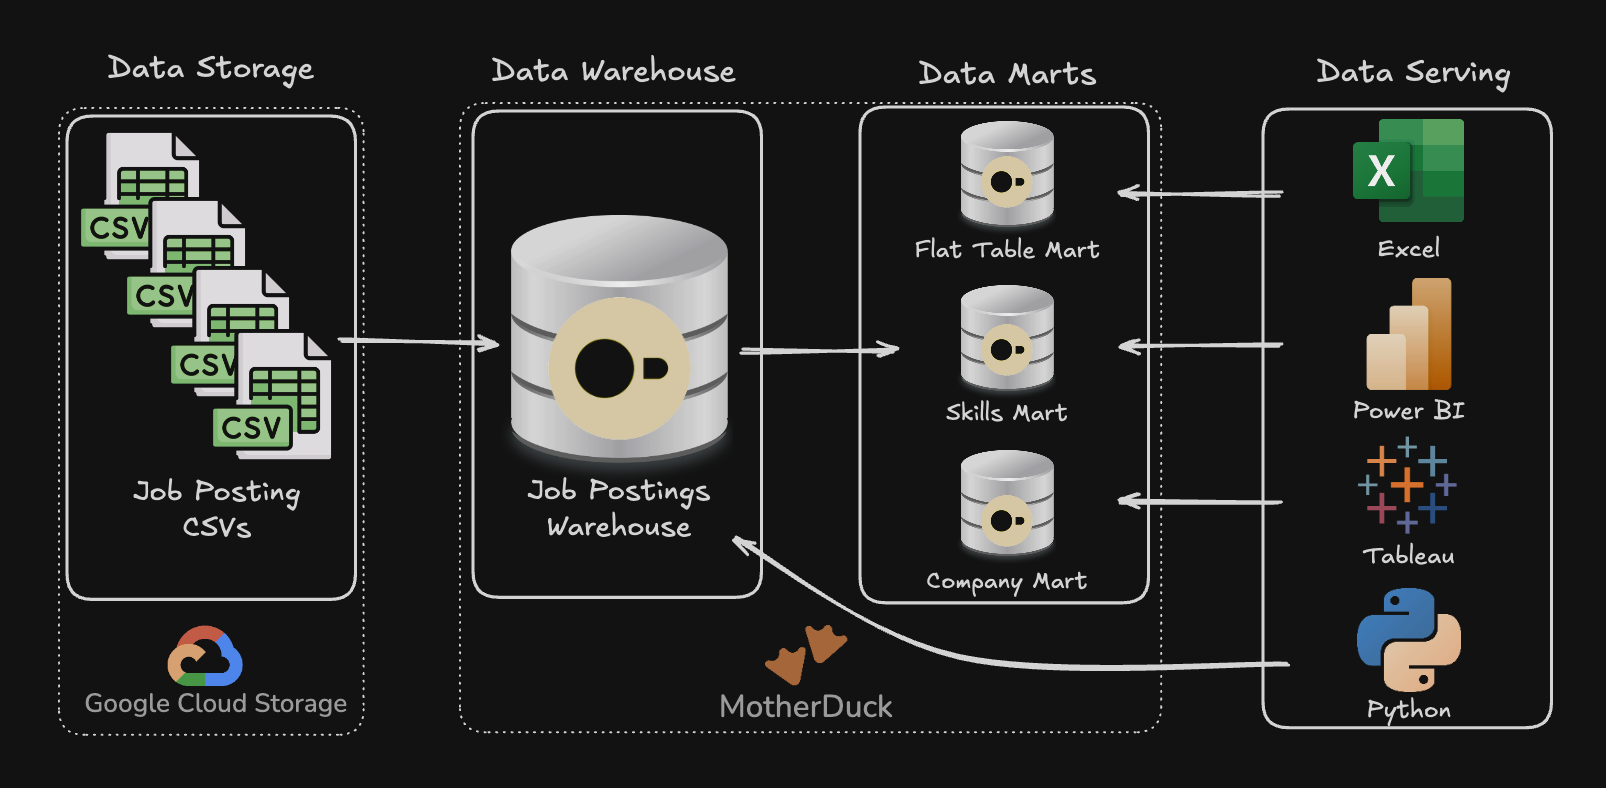
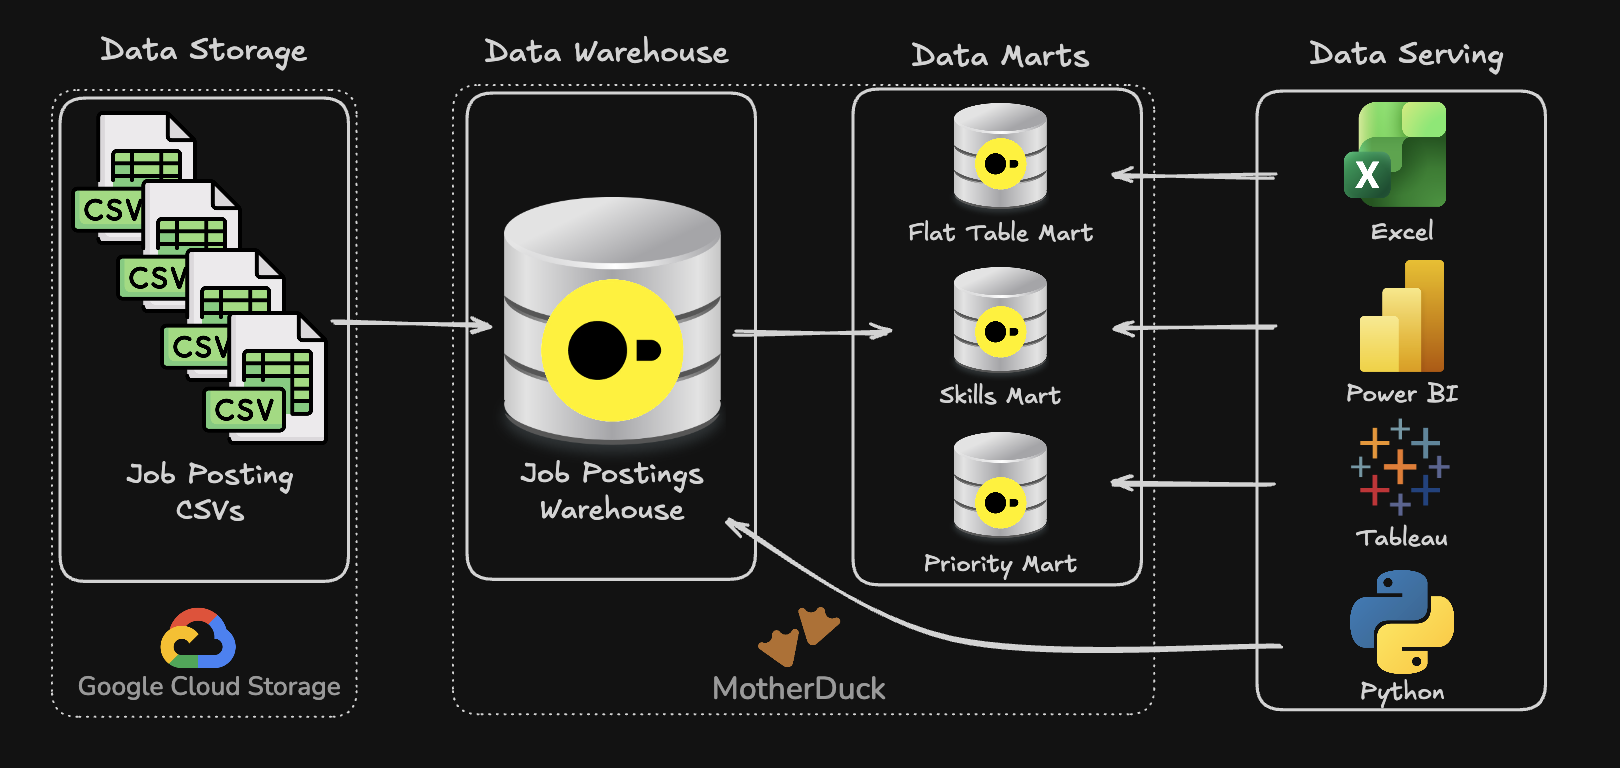
added priority mart to project2

diff --git a/Projects/2_WH_Mart_Build/README.md b/Projects/2_WH_Mart_Build/README.md
@@ -11,13 +11,7 @@ An end-to-end data engineering pipeline that transforms raw CSV files from Googl
 - ✅ **Pipeline scope:** Built a complete **ETL pipeline** from raw CSVs to star schema warehouse to analytical marts  
 - ✅ **Data modeling:** Designed a **star schema** with fact tables, dimensions, and bridge tables for many-to-many relationships  
 - ✅ **ETL development:** Implemented **extract, transform, load** processes with idempotent operations and data quality checks  
-- ✅ **Mart architecture:** Created **3 specialized data marts** (flat, skills, company) with additive measures for safe re-aggregation
-
-If you only have a minute, review these:
-
-1. [`01_create_tables_dw.sql`](./01_create_tables_dw.sql) – star schema DDL with dimensional modeling  
-2. [`02_load_schema_dw.sql`](./02_load_schema_dw.sql) – GCS data extraction and loading  
-3. [`04_create_skills_mart.sql`](./04_create_skills_mart.sql) – skills demand mart with additive measures  
+- ✅ **Mart architecture:** Created **specialized data marts** (flat, skills, priority) with additive measures and incremental update patterns
 
 ---
 
@@ -31,7 +25,7 @@ Raw job posting data arrives as flat CSV files in Google Cloud Storage—not str
 
 **Challenge:** Data teams need a single source of truth system—a data warehouse—to enable consistent, reliable analysis across the organization. Additionally, specialized data marts are required to optimize resources by pre-aggregating data for specific business use cases, reducing query complexity and improving performance for common analytical patterns.
 
-**Solution:** End-to-end ETL pipeline that extracts CSVs from cloud storage, normalizes them into a star schema warehouse (separating facts from dimensions), and creates three specialized data marts optimized for specific use cases (flat queries, skill demand analysis, company hiring trends).  
+**Solution:** End-to-end ETL pipeline that extracts CSVs from cloud storage, normalizes them into a star schema warehouse (separating facts from dimensions), and creates specialized data marts optimized for specific use cases (flat queries, skill demand analysis, priority role tracking).  
 
 ---
 
@@ -51,13 +45,15 @@ Raw job posting data arrives as flat CSV files in Google Cloud Storage—not str
 
 ```text
 2_WH_Mart_Build/
-├── 01_create_tables_dw.sql      # Star schema DDL
-├── 02_load_schema_dw.sql       # GCS data extraction & loading
-├── 03_create_flat_mart.sql     # Denormalized flat mart
-├── 04_create_skills_mart.sql   # Skills demand mart
-├── 05_create_company_mart.sql  # Company hiring mart
-├── build_dw_marts.sql          # Master SQL build script
-└── README.md                    # You are here
+├── 01_create_tables_dw.sql        # Star schema DDL
+├── 02_load_schema_dw.sql          # GCS data extraction & loading
+├── 03_create_flat_mart.sql        # Denormalized flat mart
+├── 04_create_skills_mart.sql      # Skills demand mart
+├── 05_create_priority_mart.sql    # Priority roles mart
+├── 06_update_priority_mart.sql    # Priority mart incremental update (MERGE)
+├── 07_create_company_mart.sql     # Company hiring mart (optional)
+├── build_dw_marts.sql             # Master SQL build script
+└── README.md                       # You are here
 ```
 
 ---
@@ -65,9 +61,9 @@ Raw job posting data arrives as flat CSV files in Google Cloud Storage—not str
 ## 🏗 Pipeline Architecture
 
 
-![Data Pipeline Architecture](../../../Resources/images/1_2_Project2_Data_Pipeline.png)
+![Data Pipeline Architecture](../../Resources/images/1_2_Project2_Data_Pipeline.png)
 
-The pipeline transforms job posting CSVs from Google Cloud Storage into a normalized star schema data warehouse, then builds three specialized analytical data marts. BI tools (Excel, Power BI, Tableau, Python) consume from both the warehouse and marts.
+The pipeline transforms job posting CSVs from Google Cloud Storage into a normalized star schema data warehouse, then builds specialized analytical data marts. BI tools (Excel, Power BI, Tableau, Python) consume from both the warehouse and marts.
 
 ### Data Warehouse
 
@@ -102,16 +98,30 @@ Time-series skill demand analysis with additive measures.
 - **Grain:** `skill_id + month_start_date + job_title_short`
 - **Key Features:** All measures are additive (counts/sums) for safe re-aggregation
 
-### Company Mart
+### Priority Mart
+
+Priority role tracking with incremental updates using MERGE operations.
+
+![Priority Mart Schema](../../Resources/images/1_2_Priority_Mart.png)
+
+- **SQL Files:**
+  - [`05_create_priority_mart.sql`](./05_create_priority_mart.sql) – Initial build of priority roles and jobs snapshot
+  - [`06_update_priority_mart.sql`](./06_update_priority_mart.sql) – **Incremental update using MERGE** (upsert pattern)
+- **Purpose:** Track priority roles and job snapshots with incremental update capabilities
+- **Grain:** One row per job posting with priority level assignment
+- **Key Features:** **MERGE operations for incremental updates** - demonstrates production-ready upsert patterns (INSERT, UPDATE, DELETE in single statement)
+
+### Company Mart (Optional)
 
 Company hiring trends by role, location, and month.
 
 ![Company Mart Schema](../../Resources/images/1_2_Company_Mart.png)
 
-- **SQL File:** [`05_create_company_mart.sql`](./05_create_company_mart.sql) – Builds company hiring trends mart
+- **SQL File:** [`07_create_company_mart.sql`](./07_create_company_mart.sql) – Builds company hiring trends mart (optional)
 - **Purpose:** Company hiring trends analysis by role, location, and month
 - **Grain:** `company_id + job_title_short_id + location_id + month_start_date`
 - **Key Features:** Bridge tables for many-to-many relationships (company-location, job title hierarchies)
+- **Note:** This mart is optional and can be skipped if not needed
 
 ---
 
@@ -122,6 +132,7 @@ Company hiring trends by role, location, and month.
 - **Extract:** Direct CSV loading from Google Cloud Storage using DuckDB's `httpfs` extension  
 - **Transform:** Data normalization, type conversion (`CAST`, `DATE_TRUNC`), and quality filtering  
 - **Load:** Idempotent table creation with `DROP TABLE IF EXISTS` patterns  
+- **Incremental Updates:** MERGE operations for upsert patterns (INSERT, UPDATE, DELETE in single statement)  
 - **Orchestration:** Master SQL script (`build_dw_marts.sql`) for automated pipeline execution  
 
 ### Dimensional Modeling
@@ -130,7 +141,7 @@ Company hiring trends by role, location, and month.
 - **Bridge Tables:** Many-to-many relationship handling (`skills_job_dim`, `bridge_company_location`, `bridge_job_title`)  
 - **Grain Definition:** Proper fact table granularity (skill+month, company+title+location+month)  
 - **Additive Measures:** Counts and sums that can be safely re-aggregated at any level  
-- **Surrogate Keys:** Sequential ID generation using CTEs with self-joins (company_mart build only)  
+- **Surrogate Keys:** Sequential ID generation using CTEs with self-joins (optional company_mart build only)  
 
 
 
@@ -138,6 +149,7 @@ Company hiring trends by role, location, and month.
 
 - **DDL Operations:** `CREATE TABLE`, `DROP TABLE`, `CREATE SCHEMA` for schema management  
 - **DML Operations:** `INSERT INTO ... SELECT` with explicit column mapping from CSV sources  
+- **MERGE Operations:** Incremental updates using `MERGE INTO` with `WHEN MATCHED`, `WHEN NOT MATCHED`, and `WHEN NOT MATCHED BY SOURCE` clauses for production-ready upsert patterns  
 - **CTEs:** Common Table Expressions for complex transformations and boolean flag conversions  
 - **Date Functions:** `DATE_TRUNC('month')`, `EXTRACT(quarter)` for temporal dimension creation  
 - **String Functions:** `STRING_AGG` for concatenation, `REPLACE` for data cleaning  
@@ -148,5 +160,5 @@ Company hiring trends by role, location, and month.
 - **Idempotency:** All scripts safely rerunnable without side effects  
 - **Data Validation:** Verification queries at each pipeline step to ensure data integrity  
 - **Type Safety:** Proper data type definitions (`VARCHAR`, `INTEGER`, `DOUBLE`, `BOOLEAN`, `TIMESTAMP`)  
-- **Schema Organization:** Separate schemas (`flat_mart`, `skills_mart`, `company_mart`) for logical separation  
+- **Schema Organization:** Separate schemas (`flat_mart`, `skills_mart`, `priority_mart`, `company_mart`) for logical separation  
 - **Error Handling:** Structured script execution with clear error messages and progress reporting  

diff --git a/Projects/README.md b/Projects/README.md
@@ -1,6 +1,8 @@
 # Data Engineering Projects
 
-Two complementary projects demonstrating SQL analytics and data engineering pipeline development.
+The following projects are a collection of SQL projects that I have worked on to practice and reinforce my skills in SQL.
+
+> Click the project name below to view the project details and code.
 
 # Projects
 
